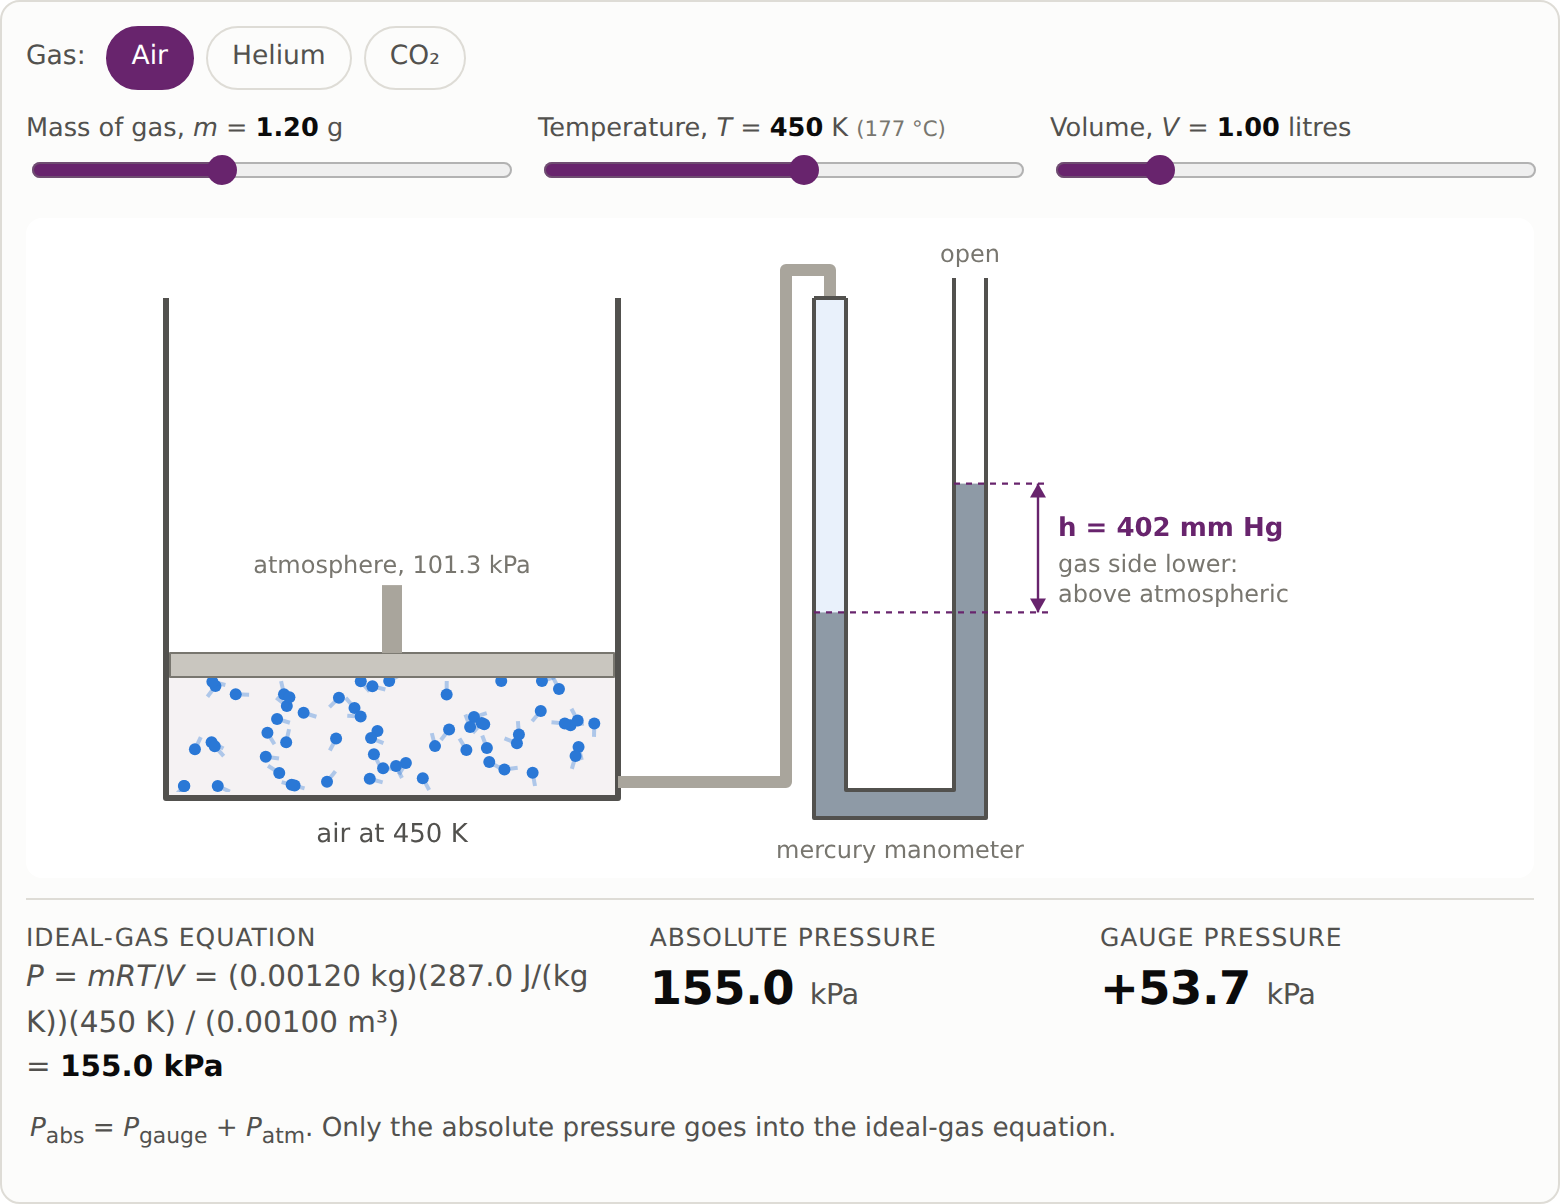
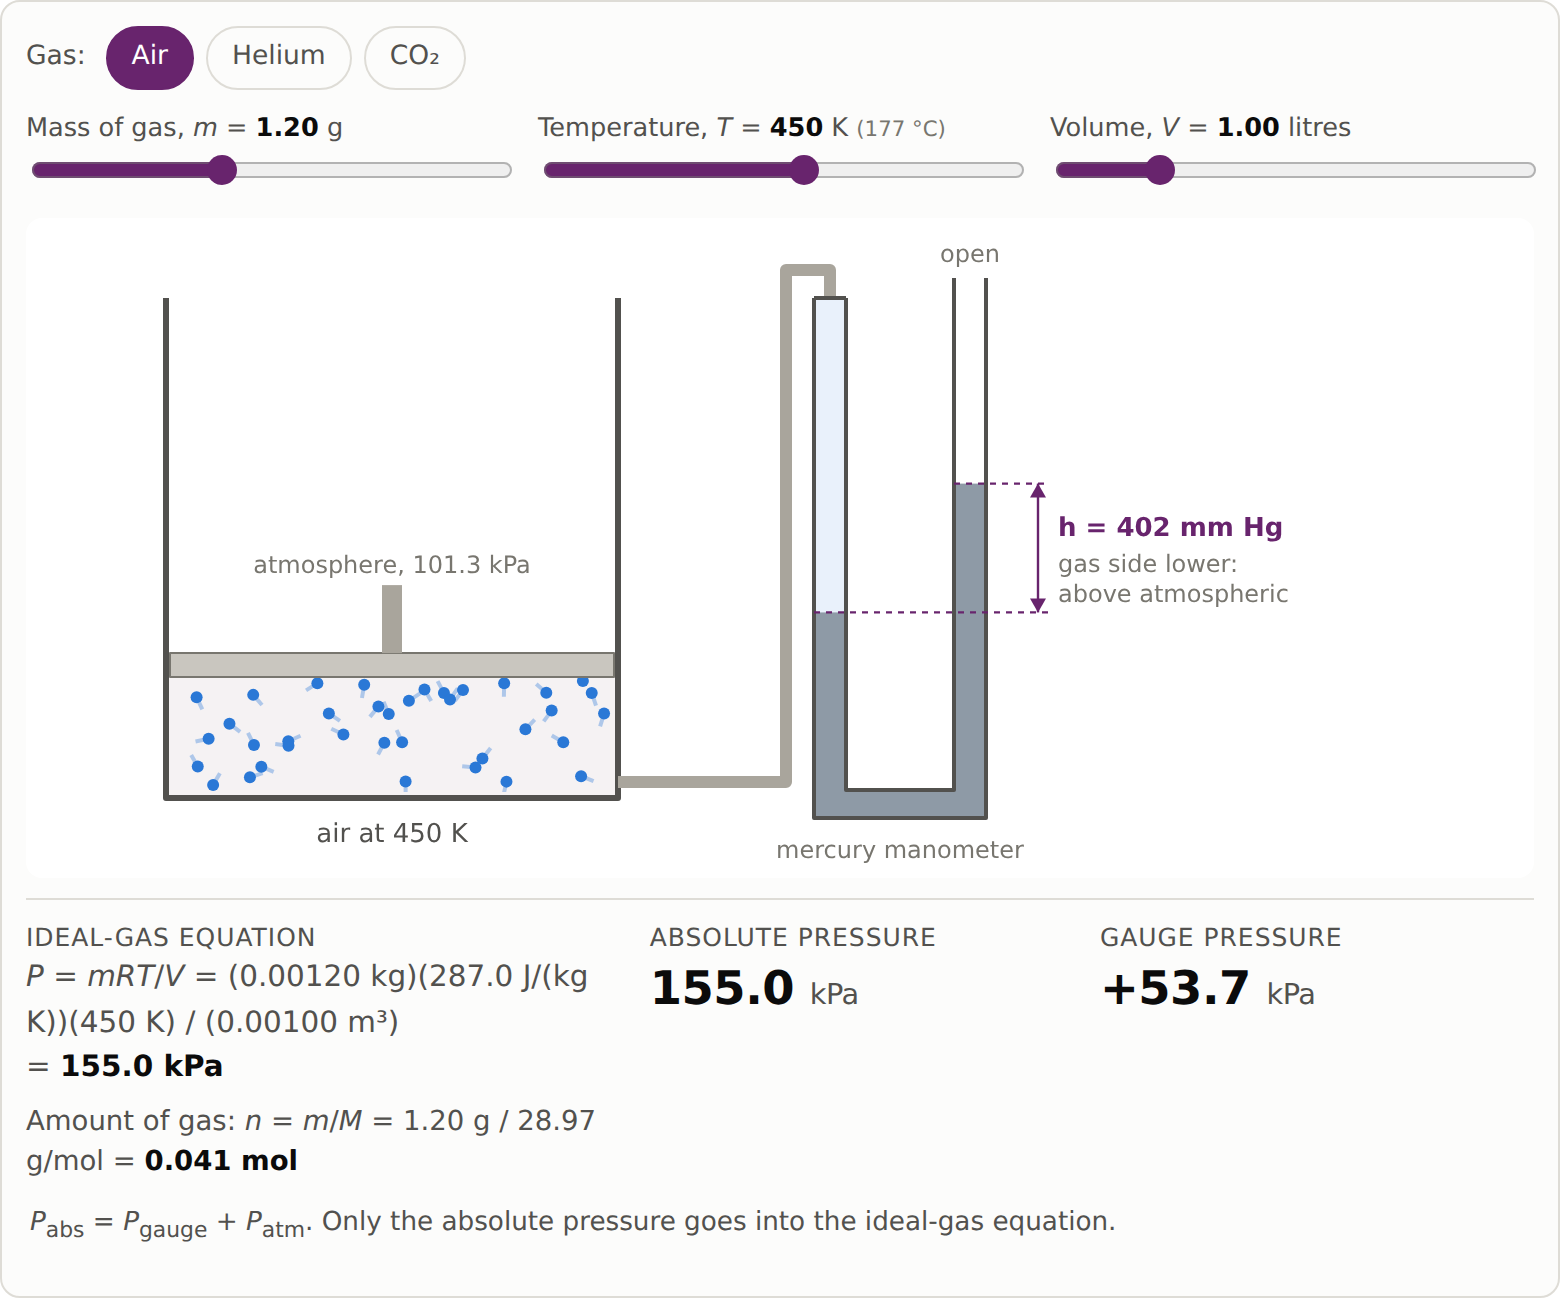
CH1 figure: show moles; molecules drawn in proportion to moles

diff --git a/widgets/ideal-gas.html b/widgets/ideal-gas.html
@@ -66,6 +66,7 @@
   .cell .v small { font-size: 0.9rem; font-weight: 500; color: var(--text-2); }
   .eq { font-size: 0.92rem; color: var(--text-2); font-variant-numeric: tabular-nums; }
   .eq b { color: var(--text-1); }
+  .eq .moles { margin-top: 6px; font-size: 0.86rem; }
   .note { font-size: 0.82rem; color: var(--text-2); margin: 10px 2px 0; min-height: 2.6em; }
   .note b { color: var(--accent); }
 </style>
@@ -145,12 +146,13 @@
   const fmt = (x, d) => x.toLocaleString("en-GB", { minimumFractionDigits: d, maximumFractionDigits: d });
 
   // ---------------------------------------------------------- molecules --
-  // the number drawn follows the number of MOLES, n = m/M, so 1.2 g of air and
-  // 0.17 g of helium show about the same number of molecules
+  // the number drawn is proportional to the number of MOLES, n = m/M, over the
+  // whole slider range (no cap is reached: 3 g of helium is 0.75 mol, about 670
+  // dots), so 1.2 g of helium really shows about 7 times as many as 1.2 g of air
   let mols = [];
   function targetCount() {
     const n = +mS.value / gas.M;                        // mol (m in g, M in g/mol)
-    return Math.max(4, Math.min(260, Math.round(n * 1450)));
+    return Math.max(1, Math.min(700, Math.round(n * 900)));
   }
   function syncMolecules(box) {
     const want = targetCount();
@@ -322,7 +324,9 @@
     $("vOut").textContent = fmt(s.V, 2);
     $("eq").innerHTML =
       "<i>P</i> = <i>mRT</i>/<i>V</i> = (" + fmt(s.m / 1000, 5) + " kg)(" + fmt(gas.R, gas.R < 1000 ? 1 : 0) +
-      " J/(kg K))(" + fmt(s.T, 0) + " K) / (" + fmt(s.V / 1000, 5) + " m³)<br>= <b>" + fmt(s.P / 1000, 1) + " kPa</b>";
+      " J/(kg K))(" + fmt(s.T, 0) + " K) / (" + fmt(s.V / 1000, 5) + " m³)<br>= <b>" + fmt(s.P / 1000, 1) + " kPa</b>" +
+      "<div class='moles'>Amount of gas: <i>n</i> = <i>m</i>/<i>M</i> = " + fmt(s.m, 2) + " g / " + fmt(gas.M, 2) +
+      " g/mol = <b>" + fmt(s.m / gas.M, 3) + " mol</b></div>";
     $("pAbs").innerHTML = fmt(s.P / 1000, 1) + " <small>kPa</small>";
     $("pGauge").innerHTML = (s.Pg >= 0 ? "+" : "−") + fmt(Math.abs(s.Pg) / 1000, 1) + " <small>kPa</small>";
     $("pGauge").style.color = s.Pg >= 0 ? "#0b0b0b" : "#be1e2d";
